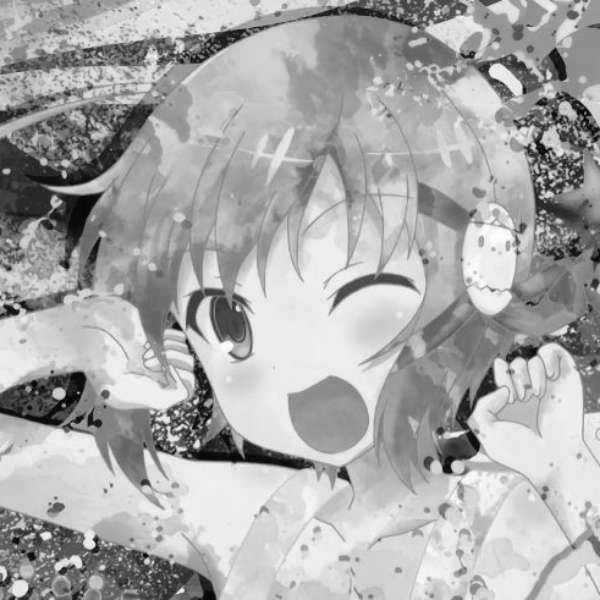
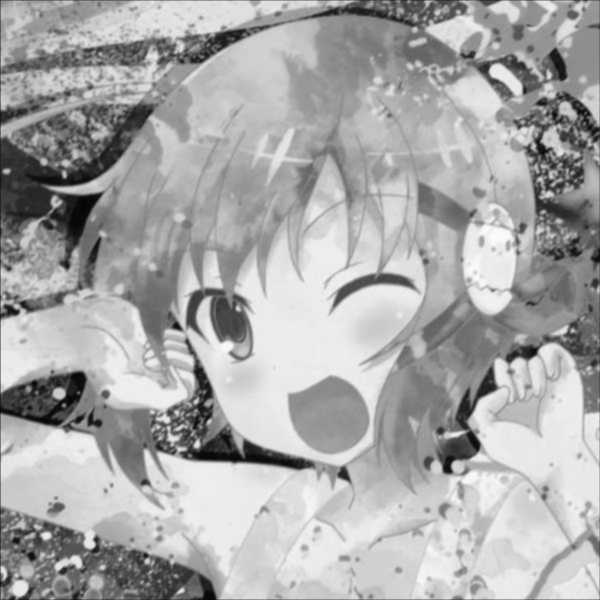
gaussian & Conv

diff --git a/main.js b/main.js
@@ -1,22 +1,24 @@
 import fs from 'fs'
 import jpeg from 'jpeg-js'
 
-import {toGrayImg, toGrayScale} from "./utils/index.js";
+import {toGrayImg, toGrayScale, Padding} from "./utils/index.js";
+import Conv from "./utils/convolution.js"
 import {checkImg} from "./utils/startServer.js";
-import {gaussian} from "./utils/kernels.js";
+import * as kernel from "./utils/kernels.js";
 
 // read and encode img
-let jpegData = fs.readFileSync('1.jpg');
+let jpegData = fs.readFileSync('3.jpg');
 let rawImageData = jpeg.decode(jpegData);
 const {width, height} = rawImageData
 
+let img = Padding(toGrayScale(rawImageData, width, height))
+img = Conv(img, kernel.gaussian)
+// img = Conv(img, kernel.xGrad)
+console.log(img)
 
-let img = toGrayImg(toGrayScale(rawImageData, width, height))
+img = toGrayImg(img)
 
 let newJpegEncoded = jpeg.encode(img)
-fs.writeFileSync('./output/11.jpg', newJpegEncoded.data)
-
-checkImg('./output/11.jpg')
-
-console.log(img);
-
+fs.writeFileSync('./output/33gaussian.jpg', newJpegEncoded.data)
+//
+// checkImg('./output/aa.jpg')

diff --git a/utils/convolution.js b/utils/convolution.js
@@ -1,0 +1,26 @@
+export default function Conv(grayScale, kernel, param = 1) {
+    const {data, width, height} = grayScale
+    const newWidth = width - 2
+    const newHeight = height - 2
+    const r = parseInt(Math.sqrt(kernel.length))
+    const isConv = {
+        width: newWidth,
+        height: newHeight,
+        data: Buffer.alloc(newHeight * newWidth)
+    }
+    for (let i = 0; i < newHeight * newWidth; i ++){
+        let index = parseInt(i/newWidth) * width + i % newWidth + width + 1
+        isConv.data[i] =
+            (data[index - width - 1] * kernel[0] +
+            data[index - width    ] * kernel[1] +
+            data[index - width + 1] * kernel[2] +
+            data[index         - 1] * kernel[3] +
+            data[index            ] * kernel[4] +
+            data[index         + 1] * kernel[5] +
+            data[index + width - 1] * kernel[6] +
+            data[index + width    ] * kernel[7] +
+            data[index + width - 1] * kernel[8])/param
+    }
+    return isConv
+
+}

diff --git a/utils/index.js b/utils/index.js
@@ -39,11 +39,20 @@ export const toGrayImg = (grayScale) => {
 }
 
 //Padding
-export const Padding = (grayScale) => {
+export const Padding = (grayScale) =>
+{
+    const {width, height, data} = grayScale
+
     const paddingImg = {
         width: width + 2,
         height: height + 2,
-        data: Buffer.alloc(this.height * this.width)
+        data: Buffer.alloc((width + 2) * (height + 2))
     }
 
+    for (let i = 0; i < height*width; i ++){
+        let index = width + parseInt(i / width) * (width + 2) + i % width + 3
+        paddingImg.data[index] = data[i]
+    }
+
+    return paddingImg
 }

diff --git a/utils/kernels.js b/utils/kernels.js
@@ -1,5 +1,21 @@
-export const gaussian = [
-    [1, 2, 1],
-    [1, 2, 1],
-    [1, 2, 1]
+const gaussian = [
+    0.0947416, 0.118318, 0.0947416,
+    0.118318 , 0.147761, 0.118318,
+    0.0947416, 0.118318, 0.0947416
 ]
+const xGrad = [
+     1,  2,  1,
+     0,  0,  0,
+    -1, -2, -1
+]
+const yGrad = [
+    1, 0, -1,
+    2, 0, -2,
+    1, 0, -1
+]
+
+export {
+    xGrad,
+    yGrad,
+    gaussian,
+}
